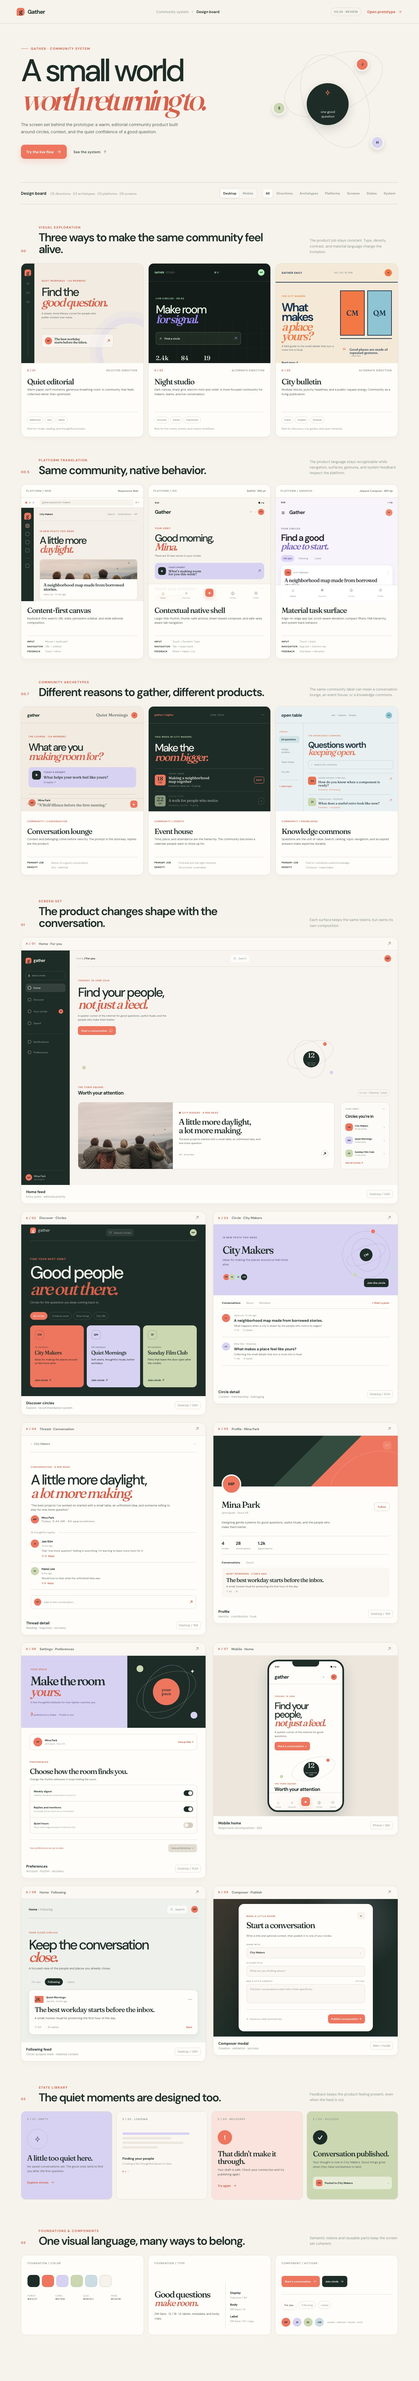
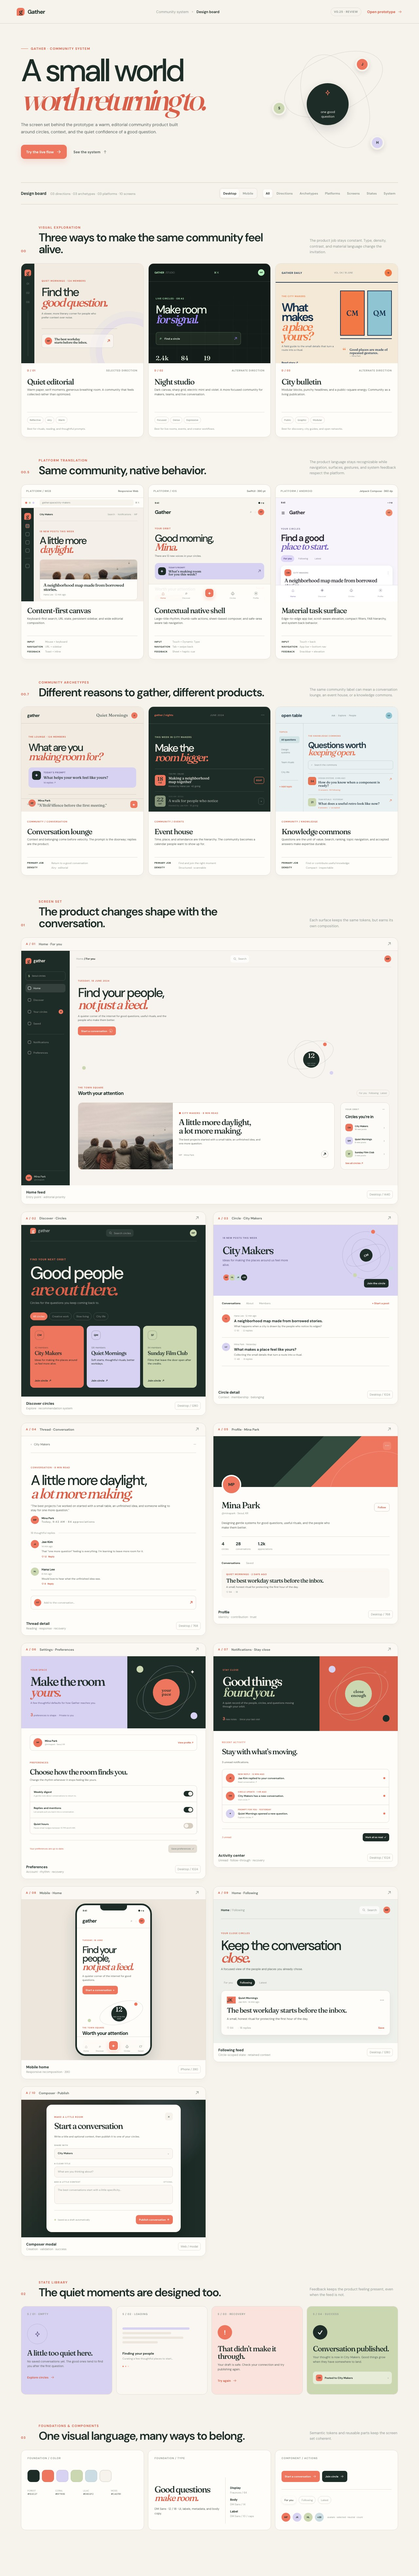
feat: align notifications board handoff

diff --git a/examples/community/board.css b/examples/community/board.css
@@ -213,6 +213,8 @@ button:focus-visible, a:focus-visible { outline: 3px solid rgba(239,118,94,.4); 
 .canvas-profile { min-height: 490px; background: var(--surface); }.profile-cover { position: relative; height: 155px; background: linear-gradient(135deg, var(--forest) 0 47%, #344c40 47% 63%, var(--coral) 63%); }.profile-cover:after { position: absolute; right: -50px; bottom: -80px; width: 260px; height: 180px; border: 1px solid rgba(255,255,255,.25); border-radius: 50%; content: ""; transform: rotate(-23deg); }.profile-cover > span { position: absolute; bottom: -23px; left: 25px; z-index: 1; display: grid; place-items: center; width: 60px; height: 60px; border: 4px solid var(--surface); border-radius: 50%; background: var(--coral); color: var(--forest); font-size: 13px; font-weight: 700; }.profile-cover > button { position: absolute; top: 17px; right: 20px; width: 25px; height: 25px; border-radius: 7px; background: rgba(255,255,255,.12); color: white; }.profile-content { padding: 39px 25px 22px; }.profile-head { display: flex; align-items: center; justify-content: space-between; }.profile-head h3 { margin: 0 0 3px; color: var(--forest); font-family: var(--serif); font-size: 27px; font-weight: 500; letter-spacing: -.06em; }.profile-head p { margin: 0; color: var(--ink-faint); font-size: 8px; }.profile-head button { padding: 7px 10px; border: 1px solid var(--line-strong); border-radius: 7px; background: transparent; color: var(--coral-deep); font-size: 8px; font-weight: 700; }.profile-bio { max-width: 350px; margin: 19px 0; color: var(--ink-soft); font-size: 9px; line-height: 1.55; }.profile-stats { display: flex; gap: 22px; padding: 13px 0; border-top: 1px solid var(--line); border-bottom: 1px solid var(--line); }.profile-stats span { display: grid; gap: 3px; color: var(--ink-faint); font-size: 7px; }.profile-stats b { color: var(--forest); font-size: 13px; }.profile-tabs { display: flex; gap: 18px; padding: 19px 0 11px; color: var(--ink-faint); font-size: 8px; }.profile-tabs b { color: var(--ink); }.profile-post { display: grid; gap: 6px; padding: 14px; border-radius: 10px; background: var(--surface-soft); }.profile-post small { color: var(--coral-deep); font-size: 7px; font-weight: 700; letter-spacing: .1em; }.profile-post strong { color: var(--forest); font-family: var(--serif); font-size: 17px; font-weight: 500; letter-spacing: -.05em; line-height: 1.04; }.profile-post p { margin: 0; color: var(--ink-soft); font-size: 8px; }.profile-post span { color: var(--ink-faint); font-size: 7px; }
 .canvas-settings { min-height: 490px; background: var(--surface); }.settings-board-hero { display: grid; grid-template-columns: 1.15fr .85fr; min-height: 220px; overflow: hidden; background: var(--lilac); }.settings-board-hero > div:first-child { padding: 28px; }.settings-board-hero small, .settings-board-heading > small { color: var(--coral-deep); font-size: 7px; font-weight: 700; letter-spacing: .12em; }.settings-board-hero h3 { margin: 11px 0 10px; color: var(--forest); font-family: var(--serif); font-size: 38px; font-weight: 500; letter-spacing: -.08em; line-height: .88; }.settings-board-hero h3 em { color: var(--coral-deep); }.settings-board-hero p { max-width: 220px; margin: 0 0 19px; color: var(--lilac-ink); font-size: 8px; line-height: 1.45; }.settings-board-hero > div:first-child > span { color: var(--lilac-ink); font-size: 7px; }.settings-board-hero > div:first-child > span b { color: var(--coral-deep); font-size: 13px; }.settings-board-orbit { position: relative; overflow: hidden; background: var(--forest); }.settings-board-orbit:before, .settings-board-orbit:after { position: absolute; top: 50%; left: 50%; border: 1px solid rgba(202,215,177,.38); border-radius: 50%; content: ""; transform: translate(-50%, -50%) rotate(-24deg); }.settings-board-orbit:before { width: 190px; height: 108px; }.settings-board-orbit:after { width: 128px; height: 172px; border-color: rgba(216,210,242,.45); transform: translate(-50%, -50%) rotate(31deg); }.settings-board-orbit span { position: absolute; top: 50%; left: 50%; z-index: 1; display: grid; place-items: center; width: 82px; height: 82px; border-radius: 50%; background: var(--coral); color: var(--forest); font-family: var(--serif); font-size: 13px; line-height: .9; text-align: center; transform: translate(-50%, -50%); }.settings-board-orbit i { position: absolute; z-index: 2; width: 21px; height: 21px; border-radius: 50%; }.settings-board-orbit i:nth-child(1) { top: 29px; left: 28px; background: var(--moss); }.settings-board-orbit i:nth-child(2) { right: 25px; bottom: 28px; background: var(--lilac); }.settings-board-orbit b { position: absolute; top: 39px; right: 35px; z-index: 2; color: var(--paper); font-size: 13px; }.settings-board-body { padding: 19px 26px 22px; }.settings-board-account { display: flex; align-items: center; gap: 8px; padding: 10px; border: 1px solid var(--line); border-radius: 9px; background: rgba(255,253,249,.72); }.settings-board-account > span:first-child { display: grid; place-items: center; width: 27px; height: 27px; border-radius: 50%; color: var(--forest); font-size: 6px; font-weight: 700; }.settings-board-account > span:nth-child(2) { display: grid; flex: 1; gap: 2px; }.settings-board-account strong { color: var(--forest); font-size: 8px; }.settings-board-account small { color: var(--ink-faint); font-size: 6px; }.settings-board-account > b { color: var(--coral-deep); font-size: 7px; }.settings-board-heading { padding: 23px 0 12px; }.settings-board-heading h4 { margin: 7px 0 5px; color: var(--forest); font-family: var(--serif); font-size: 23px; font-weight: 500; letter-spacing: -.07em; }.settings-board-heading p { margin: 0; color: var(--ink-soft); font-size: 8px; }.settings-board-list { overflow: hidden; border: 1px solid var(--line); border-radius: 9px; }.settings-board-list > div { display: flex; align-items: center; gap: 12px; min-height: 49px; padding: 9px 11px; }.settings-board-list > div + div { border-top: 1px solid var(--line); }.settings-board-list > div > span { display: grid; flex: 1; gap: 3px; }.settings-board-list strong { color: var(--forest); font-size: 8px; }.settings-board-list small { color: var(--ink-faint); font-size: 6px; }.settings-board-list i { position: relative; display: block; width: 29px; height: 17px; border-radius: 99px; background: var(--line-strong); }.settings-board-list i:after { position: absolute; top: 2px; left: 2px; width: 13px; height: 13px; border-radius: 50%; background: var(--paper); box-shadow: 0 1px 3px rgba(29,40,36,.16); content: ""; }.settings-board-list i.on { background: var(--forest); }.settings-board-list i.on:after { transform: translateX(12px); }.settings-board-footer { display: flex; align-items: center; justify-content: space-between; gap: 10px; margin-top: 18px; padding-top: 13px; border-top: 1px solid var(--line); }.settings-board-footer span { color: var(--coral-deep); font-size: 7px; }.settings-board-footer b { padding: 8px 9px; border-radius: 7px; background: var(--line); color: var(--ink-faint); font-size: 7px; }
 
+.canvas-notifications { min-height: 490px; background: var(--surface); }.notifications-board-hero { display: grid; grid-template-columns: 1.15fr .85fr; min-height: 220px; overflow: hidden; background: var(--forest); }.notifications-board-hero > div:first-child { padding: 28px; }.notifications-board-hero small, .notifications-board-heading > small { color: var(--coral); font-size: 7px; font-weight: 700; letter-spacing: .12em; }.notifications-board-hero h3 { margin: 11px 0 10px; color: var(--paper); font-family: var(--serif); font-size: 38px; font-weight: 500; letter-spacing: -.08em; line-height: .88; }.notifications-board-hero h3 em { color: var(--moss); }.notifications-board-hero p { max-width: 230px; margin: 0 0 19px; color: rgba(246,242,236,.67); font-size: 8px; line-height: 1.45; }.notifications-board-hero > div:first-child > span { color: rgba(246,242,236,.58); font-size: 7px; }.notifications-board-hero > div:first-child > span b { color: var(--coral); font-size: 13px; }.notifications-board-orbit { position: relative; overflow: hidden; background: var(--coral-deep); }.notifications-board-orbit:before, .notifications-board-orbit:after { position: absolute; top: 50%; left: 50%; border: 1px solid rgba(255,253,249,.44); border-radius: 50%; content: ""; transform: translate(-50%, -50%) rotate(-24deg); }.notifications-board-orbit:before { width: 190px; height: 108px; }.notifications-board-orbit:after { width: 128px; height: 172px; border-color: rgba(202,215,177,.58); transform: translate(-50%, -50%) rotate(31deg); }.notifications-board-orbit span { position: absolute; top: 50%; left: 50%; z-index: 1; display: grid; place-items: center; width: 82px; height: 82px; border-radius: 50%; background: var(--moss); color: var(--forest); font-family: var(--serif); font-size: 13px; line-height: .9; text-align: center; transform: translate(-50%, -50%); }.notifications-board-orbit i { position: absolute; z-index: 2; width: 21px; height: 21px; border-radius: 50%; }.notifications-board-orbit i:nth-child(1) { top: 29px; left: 28px; background: var(--lilac); }.notifications-board-orbit i:nth-child(2) { right: 25px; bottom: 28px; background: var(--forest); }.notifications-board-orbit b { position: absolute; top: 39px; right: 35px; z-index: 2; color: var(--paper); font-size: 13px; }.notifications-board-body { padding: 19px 26px 22px; }.notifications-board-heading { padding: 2px 0 13px; }.notifications-board-heading h4 { margin: 7px 0 5px; color: var(--forest); font-family: var(--serif); font-size: 23px; font-weight: 500; letter-spacing: -.07em; }.notifications-board-heading > span { color: var(--ink-soft); font-size: 8px; }.notifications-board-list { overflow: hidden; border: 1px solid var(--line); border-radius: 9px; }.notifications-board-list > div { display: flex; align-items: center; gap: 10px; min-height: 54px; padding: 9px 11px; }.notifications-board-list > div + div { border-top: 1px solid var(--line); }.notifications-board-list > div > span:first-child { display: grid; flex: 0 0 27px; place-items: center; width: 27px; height: 27px; border-radius: 50%; color: var(--forest); font-size: 6px; font-weight: 700; }.notifications-board-list > div > span:nth-child(2) { display: grid; flex: 1; gap: 3px; min-width: 0; }.notifications-board-list small { color: var(--coral-deep); font-size: 6px; font-weight: 700; letter-spacing: .08em; }.notifications-board-list strong { overflow: hidden; color: var(--forest); font-size: 8px; font-weight: 600; text-overflow: ellipsis; white-space: nowrap; }.notifications-board-list em { color: var(--ink-faint); font-size: 6px; font-style: normal; }.notifications-board-list > div > i { width: 6px; height: 6px; border-radius: 50%; background: var(--coral); }.notifications-board-footer { display: flex; align-items: center; justify-content: space-between; gap: 10px; margin-top: 18px; padding-top: 13px; border-top: 1px solid var(--line); }.notifications-board-footer span { color: var(--coral-deep); font-size: 7px; }.notifications-board-footer b { padding: 8px 9px; border-radius: 7px; background: var(--forest); color: var(--paper); font-size: 7px; }
+
 /* miniature state and creation screens */
 .canvas-filtered { min-height: 420px; padding: 20px 23px 24px; background: #edf0eb; }.filtered-topbar { display: flex; align-items: center; gap: 12px; padding-bottom: 14px; border-bottom: 1px solid rgba(29,44,39,.14); color: var(--ink-faint); font-size: 9px; }.filtered-topbar > span:first-child { flex: 1; }.filtered-topbar > span:first-child b { color: var(--forest); }.filtered-topbar .mini-search { display: inline-flex; }.filtered-hero { padding: 30px 0 22px; }.filtered-hero small { color: var(--coral-deep); font-size: 7px; font-weight: 700; letter-spacing: .12em; }.filtered-hero h3 { margin: 11px 0 10px; color: var(--forest); font-size: clamp(28px, 4vw, 42px); font-weight: 500; letter-spacing: -.09em; line-height: .9; }.filtered-hero h3 em { color: var(--coral-deep); font-family: var(--serif); font-weight: 500; }.filtered-hero p { max-width: 350px; margin: 0; color: var(--ink-soft); font-size: 9px; line-height: 1.55; }.filtered-tabs { display: flex; gap: 4px; margin-bottom: 13px; }.filtered-tabs span { padding: 6px 9px; border-radius: 999px; color: var(--ink-faint); font-size: 8px; }.filtered-tabs .selected { background: var(--forest); color: var(--paper); font-weight: 700; }.filtered-post { display: grid; gap: 10px; padding: 17px; border: 1px solid var(--line); border-radius: 13px; background: var(--surface); box-shadow: 0 8px 18px rgba(39,45,41,.05); }.filtered-post-head { display: grid; grid-template-columns: 27px 1fr auto; gap: 8px; align-items: center; }.filtered-post-head > span:nth-child(2) { display: grid; gap: 3px; }.filtered-post-head b { color: var(--forest); font-size: 8px; }.filtered-post-head small { color: var(--ink-faint); font-size: 7px; }.filtered-post-head i { color: var(--ink-faint); font-size: 10px; font-style: normal; letter-spacing: .08em; }.filtered-post > strong { color: var(--forest); font-family: var(--serif); font-size: 21px; font-weight: 500; letter-spacing: -.05em; line-height: 1; }.filtered-post > p { margin: 0; color: var(--ink-soft); font-size: 9px; line-height: 1.5; }.filtered-post-actions { display: flex; gap: 13px; padding-top: 4px; color: var(--ink-faint); font-size: 8px; }.filtered-post-actions b { margin-left: auto; color: var(--coral-deep); }
 .canvas-composer { display: grid; place-items: center; min-height: 420px; background: var(--forest); }.composer-backdrop { position: absolute; inset: 0; background: radial-gradient(circle at 75% 18%, rgba(216,210,242,.28), transparent 28%), linear-gradient(135deg, rgba(239,118,94,.2), transparent 48%); opacity: .8; }.board-composer-card { position: relative; width: min(410px, calc(100% - 34px)); padding: 24px; border-radius: 16px; background: var(--surface); box-shadow: 0 22px 45px rgba(0,0,0,.22); }.board-composer-head { display: flex; align-items: flex-start; justify-content: space-between; gap: 14px; }.board-composer-head small { color: var(--coral-deep); font-size: 7px; font-weight: 700; letter-spacing: .12em; }.board-composer-head h3 { margin: 8px 0 0; color: var(--forest); font-family: var(--serif); font-size: 26px; font-weight: 500; letter-spacing: -.07em; line-height: .95; }.board-composer-head > span { display: grid; place-items: center; width: 24px; height: 24px; border-radius: 7px; background: var(--paper); color: var(--ink-soft); font-size: 14px; }.board-composer-copy { margin: 13px 0 17px; color: var(--ink-soft); font-size: 8px; line-height: 1.5; }.board-field { display: grid; gap: 5px; margin-top: 10px; }.board-field > small { color: var(--ink-faint); font-size: 6px; font-weight: 700; letter-spacing: .1em; }.board-field > small i { float: right; font-style: normal; font-weight: 400; letter-spacing: 0; }.board-field > b { min-height: 33px; padding: 9px 10px; border: 1px solid var(--line); border-radius: 8px; background: var(--surface-soft); color: var(--forest); font-size: 8px; font-weight: 600; }.board-field > b span { float: right; color: var(--ink-faint); }.board-field > .field-placeholder { color: var(--ink-faint); font-weight: 400; }.board-field-large > b { min-height: 58px; line-height: 1.45; }.board-composer-footer { display: flex; align-items: center; justify-content: space-between; gap: 10px; margin-top: 19px; padding-top: 14px; border-top: 1px solid var(--line); }.board-composer-footer > span { color: var(--ink-faint); font-size: 7px; }.board-composer-footer > span i { display: inline-block; width: 5px; height: 5px; margin-right: 4px; border-radius: 50%; background: var(--moss); }.board-composer-footer > strong { padding: 9px 10px; border-radius: 8px; background: var(--coral); color: white; font-size: 8px; }
@@ -260,4 +262,6 @@ button:focus-visible, a:focus-visible { outline: 3px solid rgba(239,118,94,.4); 
 }
 @media (max-width: 720px) { .canvas-settings { min-height: 475px; }.settings-board-hero { grid-template-columns: 1fr; }.settings-board-hero > div:first-child { padding: 24px 19px; }.settings-board-orbit { min-height: 170px; }.settings-board-body { padding-right: 19px; padding-left: 19px; } }
 @media (max-width: 420px) { .settings-board-heading h4 { font-size: 21px; }.settings-board-footer { align-items: flex-start; flex-direction: column; }.settings-board-footer b { width: 100%; text-align: center; } }
+@media (max-width: 720px) { .canvas-notifications { min-height: 475px; }.notifications-board-hero { grid-template-columns: 1fr; }.notifications-board-hero > div:first-child { padding: 24px 19px; }.notifications-board-orbit { min-height: 170px; }.notifications-board-body { padding-right: 19px; padding-left: 19px; } }
+@media (max-width: 420px) { .notifications-board-heading h4 { font-size: 21px; }.notifications-board-footer { align-items: flex-start; flex-direction: column; }.notifications-board-footer b { width: 100%; text-align: center; }.notifications-board-list strong { white-space: normal; } }
 @media (prefers-reduced-motion: reduce) { *, *::before, *::after { scroll-behavior: auto !important; transition-duration: .01ms !important; animation-duration: .01ms !important; } }

diff --git a/examples/community/board.html b/examples/community/board.html
@@ -35,7 +35,7 @@
     <header class="board-header">
       <a class="board-brand" href="./index.html" aria-label="Back to Gather home"><span class="board-brand-mark">g</span><span>Gather</span></a>
       <div class="board-crumb"><span>Community system</span><i></i><strong>Design board</strong></div>
-      <div class="board-header-actions"><span class="version-chip">v0.24 · review</span><a class="open-prototype" href="./index.html">Open prototype <svg class="board-icon" aria-hidden="true"><use href="#board-arrow" /></svg></a></div>
+      <div class="board-header-actions"><span class="version-chip">v0.25 · review</span><a class="open-prototype" href="./index.html">Open prototype <svg class="board-icon" aria-hidden="true"><use href="#board-arrow" /></svg></a></div>
     </header>
 
     <main class="board-main" id="boardMain" data-view="desktop">
@@ -50,7 +50,7 @@
       </section>
 
       <section class="board-toolbar" aria-label="Design board controls">
-          <div class="board-toolbar-label"><strong>Design board</strong><span>03 directions · 03 archetypes · 03 platforms · 09 screens</span></div>
+          <div class="board-toolbar-label"><strong>Design board</strong><span>03 directions · 03 archetypes · 03 platforms · 10 screens</span></div>
         <div class="board-controls">
           <div class="board-segmented" role="group" aria-label="Preview size"><button class="is-active" type="button" data-view-toggle="desktop" aria-pressed="true">Desktop</button><button type="button" data-view-toggle="mobile" aria-pressed="false">Mobile</button></div>
           <div class="board-filters" role="group" aria-label="Filter board"><button class="is-active" type="button" data-board-filter="all" aria-pressed="true">All</button><button type="button" data-board-filter="directions" aria-pressed="false">Directions</button><button type="button" data-board-filter="archetypes" aria-pressed="false">Archetypes</button><button type="button" data-board-filter="platforms" aria-pressed="false">Platforms</button><button type="button" data-board-filter="screens" aria-pressed="false">Screens</button><button type="button" data-board-filter="states" aria-pressed="false">States</button><button type="button" data-board-filter="system" aria-pressed="false">System</button></div>
@@ -162,20 +162,26 @@
             <div class="artboard-caption"><div><strong>Preferences</strong><span>Account · rhythm · recovery</span></div><span class="caption-chip">Desktop / 1024</span></div>
           </article>
 
+          <article class="artboard artboard-notifications" data-board-type="screens" data-artboard-title="Notifications / Stay close">
+            <div class="artboard-meta"><span class="artboard-number">A / 07</span><span class="artboard-label">Notifications · Stay close</span><button type="button" class="zoom-button" aria-label="Open Notifications screen details" data-open-artboard="Notifications / Stay close">↗</button></div>
+            <div class="artboard-canvas canvas-notifications"><div class="notifications-board-hero"><div><small>STAY CLOSE</small><h3>Good things<br /><em>found you.</em></h3><p>A quiet record of the people, circles, and questions moving through your orbit.</p><span><b>3</b> new notes&nbsp; · &nbsp;Since your last visit</span></div><div class="notifications-board-orbit"><i></i><i></i><span>close<br />enough</span><b>◌</b></div></div><div class="notifications-board-body"><div class="notifications-board-heading"><small>RECENT ACTIVITY</small><h4>Stay with what’s moving.</h4><span>3 unread notifications.</span></div><div class="notifications-board-list"><div><span class="coral-avatar">JK</span><span><small>NEW REPLY · 12 MIN AGO</small><strong>Jae Kim replied to your conversation.</strong><em>Read conversation ↗</em></span><i></i></div><div><span class="coral-avatar">CM</span><span><small>CIRCLE UPDATE · 1 HR AGO</small><strong>City Makers has a new conversation.</strong><em>Visit circle ↗</em></span><i></i></div><div><span class="lilac-avatar">✦</span><span><small>PROMPT FOR YOU · YESTERDAY</small><strong>Quiet Mornings opened a new question.</strong><em>Explore circles ↗</em></span><i></i></div></div><div class="notifications-board-footer"><span>3 unread</span><b>Mark all as read&nbsp; ✓</b></div></div></div>
+            <div class="artboard-caption"><div><strong>Activity center</strong><span>Unread · follow-through · recovery</span></div><span class="caption-chip">Desktop / 1024</span></div>
+          </article>
+
           <article class="artboard artboard-mobile" data-board-type="screens" data-artboard-title="Mobile / Home">
-            <div class="artboard-meta"><span class="artboard-number">A / 07</span><span class="artboard-label">Mobile · Home</span><button type="button" class="zoom-button" aria-label="Open Mobile screen details" data-open-artboard="Mobile / Home">↗</button></div>
+            <div class="artboard-meta"><span class="artboard-number">A / 08</span><span class="artboard-label">Mobile · Home</span><button type="button" class="zoom-button" aria-label="Open Mobile screen details" data-open-artboard="Mobile / Home">↗</button></div>
             <div class="artboard-canvas canvas-mobile"><div class="phone-frame"><div class="phone-notch"></div><div class="phone-status"><span>9:41</span><span>● ◔ ▮</span></div><div class="phone-top"><b>gather</b><span>⌕ &nbsp; ◌ &nbsp; <i>MP</i></span></div><div class="phone-body"><small class="phone-kicker">TUESDAY, 18 JUNE</small><h3>Find your people,<br /><em>not just a feed.</em></h3><p>A quieter corner of the internet for good questions.</p><button>Start a conversation&nbsp; +</button><div class="phone-orbit"><i></i><i></i><span>12<small>new voices this week</small></span></div><div class="phone-section"><small>THE TOWN SQUARE</small><b>Worth your attention</b></div><div class="phone-story"><div></div><span>● CITY MAKERS · 8 MIN READ</span><strong>A little more daylight,<br />a lot more making.</strong><small>♡ 84 &nbsp; ◌ 18</small></div></div><div class="phone-nav"><span>⌂<small>Home</small></span><span>⌕<small>Discover</small></span><b>+</b><span>♧<small>Circles</small></span><span>▱<small>Saved</small></span></div></div></div>
             <div class="artboard-caption"><div><strong>Mobile home</strong><span>Responsive recomposition · 390</span></div><span class="caption-chip">iPhone / 390</span></div>
           </article>
 
           <article class="artboard artboard-filtered" data-board-type="screens" data-artboard-title="Home / Following">
-            <div class="artboard-meta"><span class="artboard-number">A / 08</span><span class="artboard-label">Home · Following</span><button type="button" class="zoom-button" aria-label="Open Following screen details" data-open-artboard="Home / Following">↗</button></div>
+            <div class="artboard-meta"><span class="artboard-number">A / 09</span><span class="artboard-label">Home · Following</span><button type="button" class="zoom-button" aria-label="Open Following screen details" data-open-artboard="Home / Following">↗</button></div>
             <div class="artboard-canvas canvas-filtered"><div class="filtered-topbar"><span><b>Home</b> / Following</span><span class="mini-search"><svg class="board-icon" aria-hidden="true"><use href="#board-search" /></svg> Search</span><b class="mini-avatar">MP</b></div><div class="filtered-hero"><small>YOUR CLOSE CIRCLES</small><h3>Keep the conversation<br /><em>close.</em></h3><p>A focused view of the people and places you already chose.</p></div><div class="filtered-tabs"><span>For you</span><span class="selected">Following</span><span>Latest</span></div><div class="filtered-post"><div class="filtered-post-head"><span class="coral-avatar">JK</span><span><b>Quiet Mornings</b><small>Jae Kim · 14 min ago</small></span><i>•••</i></div><strong>The best workday starts before the inbox.</strong><p>A small, honest ritual for protecting the first hour of the day.</p><div class="filtered-post-actions"><span>♡ 84</span><span>◌ 18 replies</span><b>Save</b></div></div></div>
             <div class="artboard-caption"><div><strong>Following feed</strong><span>Circle-scoped state · retained context</span></div><span class="caption-chip">Desktop / 1280</span></div>
           </article>
 
           <article class="artboard artboard-composer" data-board-type="screens" data-artboard-title="Composer / Modal">
-            <div class="artboard-meta"><span class="artboard-number">A / 09</span><span class="artboard-label">Composer · Publish</span><button type="button" class="zoom-button" aria-label="Open Composer screen details" data-open-artboard="Composer / Modal">↗</button></div>
+            <div class="artboard-meta"><span class="artboard-number">A / 10</span><span class="artboard-label">Composer · Publish</span><button type="button" class="zoom-button" aria-label="Open Composer screen details" data-open-artboard="Composer / Modal">↗</button></div>
             <div class="artboard-canvas canvas-composer"><div class="composer-backdrop"></div><div class="board-composer-card"><div class="board-composer-head"><div><small>MAKE A LITTLE ROOM</small><h3>Start a conversation</h3></div><span>×</span></div><p class="board-composer-copy">Write a title and optional context, then publish it to one of your circles.</p><div class="board-field"><small>SHARE WITH</small><b>City Makers <span>⌄</span></b></div><div class="board-field"><small>A CLEAR TITLE</small><b class="field-placeholder">What are you thinking about?</b></div><div class="board-field board-field-large"><small>ADD A LITTLE CONTEXT <i>OPTIONAL</i></small><b class="field-placeholder">The best conversations start with a little specificity…</b></div><div class="board-composer-footer"><span><i></i> Saved as a draft automatically</span><strong>Publish conversation&nbsp; ↑</strong></div></div></div>
             <div class="artboard-caption"><div><strong>Composer modal</strong><span>Creation · validation · success</span></div><span class="caption-chip">Web / modal</span></div>
           </article>

diff --git a/examples/community/board.js b/examples/community/board.js
@@ -22,6 +22,7 @@ const artboardDescriptions = {
   "Thread / Conversation": "Reading · response · recovery",
   "Profile / Mina Park": "Identity · contribution · trust",
   "Settings / Preferences": "Account · rhythm · recovery",
+  "Notifications / Stay close": "Unread · follow-through · recovery",
   "Mobile / Home": "Responsive recomposition · 390",
   "Home / Following": "Circle-scoped state · retained context",
   "Composer / Modal": "Creation · validation · success",

diff --git a/tests/test_community_example_contract.py b/tests/test_community_example_contract.py
@@ -56,7 +56,7 @@ class CommunityExampleContractTests(unittest.TestCase):
     def test_design_board_exposes_shareable_state_and_dialog_focus(self):
         board_html = (EXAMPLE / "board.html").read_text(encoding="utf-8")
         board_js = (EXAMPLE / "board.js").read_text(encoding="utf-8")
-        self.assertIn('class="version-chip">v0.24 · review</span>', board_html)
+        self.assertIn('class="version-chip">v0.25 · review</span>', board_html)
         self.assertIn('aria-label="Preview size"', board_html)
         self.assertIn('data-view-toggle="desktop" aria-pressed="true"', board_html)
         self.assertIn('data-board-filter="all" aria-pressed="true"', board_html)
@@ -67,10 +67,11 @@ class CommunityExampleContractTests(unittest.TestCase):
         self.assertIn('boardDialog.addEventListener("cancel"', board_js)
         self.assertIn('aria-describedby="dialogDescription"', board_html)
         self.assertIn('window.addEventListener("popstate", readUrlState)', board_js)
-        self.assertEqual(len(re.findall(r'data-artboard-title="[^"]+"', board_html)), 9)
+        self.assertEqual(len(re.findall(r'data-artboard-title="[^"]+"', board_html)), 10)
         self.assertIn('data-artboard-title="Home / Following"', board_html)
         self.assertIn('data-artboard-title="Composer / Modal"', board_html)
         self.assertIn('data-artboard-title="Settings / Preferences"', board_html)
+        self.assertIn('data-artboard-title="Notifications / Stay close"', board_html)
 
     def test_prototype_rehydrates_url_state_after_history_changes(self):
         self.assertIn('window.addEventListener("popstate"', self.js)

diff --git a/examples/community/design-spec.md b/examples/community/design-spec.md
@@ -41,9 +41,10 @@ The selected direction is the warm editorial one because Gather’s primary job 
 4. **Thread / Conversation** — reading hierarchy, replies, author context, and inline response composer.
 5. **Profile / Mina Park** — identity, contribution history, trust signals, and saved context.
 6. **Settings / Preferences** — account context, preference rhythm, accessible toggles, and saved feedback.
-7. **Mobile home** — stacked content with fixed bottom navigation, floating create action, and responsive recomposition.
-8. **Home / Following + circle scoped** — the production surface adds filter and circle-selection states without changing the shell.
-9. **Composer / modal** — the production surface adds circle selection, required title, optional context, validation, and success feedback.
+7. **Notifications / Stay close** — unread activity, follow-through links, and mark-all-read recovery.
+8. **Mobile home** — stacked content with fixed bottom navigation, floating create action, and responsive recomposition.
+9. **Home / Following + circle scoped** — the production surface adds filter and circle-selection states without changing the shell.
+10. **Composer / modal** — the production surface adds circle selection, required title, optional context, validation, and success feedback.
 
 The design board also shows the empty, loading, recovery, and success states that are easy to omit from a visual-only case study.
 
@@ -96,6 +97,7 @@ This prevents “community” from defaulting to one feed pattern. The selected 
 | Global Saved navigation | Desktop and mobile Saved open `view=profile&profile=mina&tab=saved`, select the Saved panel, and restore the previous route through browser back |
 | Notifications route | Sidebar and topbar bell open `view=notifications`, render unread activity, mark all as read with a status announcement, and preserve browser-back recovery |
 | Settings route | Sidebar Settings opens `view=settings`, exposes account context and accessible preference toggles, announces dirty/saved state, and preserves browser-back recovery |
+| Notifications handoff | Notifications / Stay close is represented on the board with unread activity, follow-through, and recovery metadata aligned to `view=notifications` |
 | Navigation current state | Sidebar and mobile navigation share named landmarks and expose the selected destination with `aria-current="page"` |
 | Discover route | Discover opens as a shareable `view=discover` route, resets scroll instantly, filters circle cards, and restores Home through browser back |
 | Circle route | A Discover card opens `view=circle&circle=City Makers`, selects Your circles, and restores Discover through browser back |
@@ -120,6 +122,7 @@ board.html
   ├─ Thread / Conversation  ├─ open live prototype → index.html?view=thread&circle=City%20Makers&thread=city-map
   ├─ Profile / Mina Park    ├─ open live prototype → index.html?view=profile&profile=mina
   ├─ Settings / Preferences ├─ open live prototype → index.html?view=settings
+  ├─ Notifications / Stay close ├─ open live prototype → index.html?view=notifications
   └─ Mobile / Home ─────────┘
        ├─ Empty
        ├─ Loading
@@ -145,7 +148,7 @@ board.html
 | Target | Evidence | Coverage |
 | --- | --- | --- |
 | Desktop 1440 × 1000 | [`board-1440.jpg`](evidence/board-1440.jpg), [`prototype-1440.jpg`](evidence/prototype-1440.jpg) | Primary wide review of the design board and runnable surface |
-| Desktop 1280 × 900 | [`board-1280.jpg`](evidence/board-1280.jpg) | Directions, archetypes, platform translations, home, discover, circle, thread, profile, settings |
+| Desktop 1280 × 900 | [`board-1280.jpg`](evidence/board-1280.jpg) | Directions, archetypes, platform translations, home, discover, circle, thread, profile, settings, notifications |
 | Desktop 1024 × 900 | [`board-1024.jpg`](evidence/board-1024.jpg) | Sidebar-to-drawer boundary and content reflow |
 | Mobile 390 × 844 | [`board-390.jpg`](evidence/board-390.jpg), [`prototype-390.jpg`](evidence/prototype-390.jpg), [`prototype-discover-390.jpg`](evidence/prototype-discover-390.jpg) | One-column cards, horizontal filters, bottom navigation, Discover directory, composer, empty/loading/recovery/success states |
 | Discover desktop 1440 × 1000 | [`prototype-discover-1440.jpg`](evidence/prototype-discover-1440.jpg) | Dark editorial hero, circle directory cards, topic filters, route-boundary state |
@@ -157,9 +160,10 @@ board.html
 | Profile mobile 390 × 844 | [`prototype-profile-390.jpg`](evidence/prototype-profile-390.jpg) | Stacked identity cover, profile tabs, contribution cards, circle list and bottom navigation |
 | Settings desktop 1440 × 1000 | [`prototype-settings-1440.jpg`](evidence/prototype-settings-1440.jpg), [`board-1440.jpg`](evidence/board-1440.jpg) | Preferences hero, account context, toggle states, saved feedback, and board handoff parity |
 | Settings mobile 390 × 844 | [`prototype-settings-390.jpg`](evidence/prototype-settings-390.jpg), [`board-390.jpg`](evidence/board-390.jpg) | Stacked preferences flow, fixed navigation, responsive board artboard, and accessible controls |
+| Notifications desktop/mobile | [`prototype-notifications-1440.jpg`](evidence/prototype-notifications-1440.jpg), [`prototype-notifications-390.jpg`](evidence/prototype-notifications-390.jpg), [`board-1440.jpg`](evidence/board-1440.jpg), [`board-390.jpg`](evidence/board-390.jpg) | Stay close hero, unread activity, follow-through, mark-all-read recovery, and responsive board handoff |
 | Native intent: iOS 390 pt / Android 360 dp | Platform translation artboards | Large-title/tab-bar and app-bar/FAB behavior are specified; native runtime remains a target, not a shipped surface |
 
-The live surface was checked after the direction, platform, and archetype boards were added. Runtime QA also exercised composer validation → recovery → publish success, feed filter state, mobile drawer open → Escape recovery, URL restoration, prototype and board history-state rehydration, local font loading, search URL synchronization, composer focus return, drawer focus return, 44 px mobile touch-target geometry, Home and Settings board dialog metadata/focus recovery, and skip-link navigation. The [evidence manifest](evidence/manifest.json) binds each capture and runtime assertion to its route, viewport, and represented state; run `npm run test:browser` and `npm run validate:evidence` to verify the interaction contract and JPEG dimensions. Evidence captures are committed under `examples/community/evidence/`; they are full-page JPEG screenshots produced from the local server at the viewport sizes named above. Reproduce the surface with the command in [Run locally](#run-locally), then open `/board.html` and `/index.html` at the declared sizes. The static example has no backend or network dependency; loading, empty, recovery, validation, and success are represented as deterministic prototype states. Contributors can regenerate the capture matrix with `npm install`, `npx playwright install chromium`, and `npm run capture:community`; the command reads the manifest instead of maintaining a second list of viewports.
+The live surface was checked after the direction, platform, and archetype boards were added. Runtime QA also exercised composer validation → recovery → publish success, feed filter state, mobile drawer open → Escape recovery, URL restoration, prototype and board history-state rehydration, local font loading, search URL synchronization, composer focus return, drawer focus return, 44 px mobile touch-target geometry, Home, Settings, and Notifications board dialog metadata/focus recovery, and skip-link navigation. The [evidence manifest](evidence/manifest.json) binds each capture and runtime assertion to its route, viewport, and represented state; run `npm run test:browser` and `npm run validate:evidence` to verify the interaction contract and JPEG dimensions. Evidence captures are committed under `examples/community/evidence/`; they are full-page JPEG screenshots produced from the local server at the viewport sizes named above. Reproduce the surface with the command in [Run locally](#run-locally), then open `/board.html` and `/index.html` at the declared sizes. The static example has no backend or network dependency; loading, empty, recovery, validation, and success are represented as deterministic prototype states. Contributors can regenerate the capture matrix with `npm install`, `npx playwright install chromium`, and `npm run capture:community`; the command reads the manifest instead of maintaining a second list of viewports.
 
 The live route flow now covers Home circles rail → Discover → Circle / City Makers → Thread → Profile, global Saved → Profile Saved, Notifications → Thread/Circle/Discover follow-through, Settings → account/preferences, and Home → Featured Thread with shareable URLs, selected Conversations/About and Conversations/Saved tabs, join/follow feedback, author/reply context, local reply creation, contribution history, unread/read feedback, dirty/saved preference feedback, and browser-back restoration. Circle, featured Thread, Profile, Notifications, and Settings desktop/mobile captures are included in the evidence matrix alongside the Discover route.
 

diff --git a/design-qa.md b/design-qa.md
@@ -20,7 +20,7 @@ The source and implementation were captured and reviewed together before judging
 | Notifications route review | [prototype-notifications-1440.jpg](examples/community/evidence/prototype-notifications-1440.jpg), [prototype-notifications-390.jpg](examples/community/evidence/prototype-notifications-390.jpg) | Same implementation route at desktop and mobile | 1440 × 1000 and 390 × 844 CSS px / full-page evidence | 1× |
 | Settings route review | [prototype-settings-1440.jpg](examples/community/evidence/prototype-settings-1440.jpg), [prototype-settings-390.jpg](examples/community/evidence/prototype-settings-390.jpg) | Same implementation route at desktop and mobile | 1440 × 1000 and 390 × 844 CSS px / full-page evidence | 1× |
 
-The desktop source is the refreshed `A / 01 · Home / For you` artboard with its screen content aligned to the viewport. The mobile source is the responsive design board containing `A / 06 · Mobile / Home`; the implementation is the runnable prototype at the same mobile viewport.
+The desktop source is the refreshed `A / 01 · Home / For you` artboard with its screen content aligned to the viewport. The mobile source is the responsive design board containing `A / 08 · Mobile / Home`; the implementation is the runnable prototype at the same mobile viewport.
 
 ## Full-view comparison
 
@@ -45,6 +45,7 @@ The focused desktop pass inspected the hero baseline, orbit artwork, feed headin
 | DQ-009 | P2 | Route / implementation coverage | Sidebar Notifications and the topbar bell stopped at a toast, leaving the board’s Stay close activity state without a runnable destination or unread/read model. | Resolved by adding a responsive Notifications route with deterministic activity, Thread/Circle/Discover follow-through, mark-all-read status feedback, evidence captures, and a visual baseline. |
 | DQ-010 | P2 | Route / implementation coverage | Sidebar Settings stopped at a route-boundary toast, leaving the board’s account and preference surface without a runnable destination or saved-state feedback. | Resolved by adding a responsive Settings route with account context, accessible preference toggles, dirty/saved status feedback, browser-back recovery, evidence captures, and a visual baseline. |
 | DQ-011 | P2 | Handoff parity | Settings became a real route, but the public board still promised the older eight-screen set and had no inspectable Settings artboard or metadata. | Resolved by adding the ninth Settings / Preferences artboard, updating the board marker and inventory, adding responsive board styling, and testing Settings dialog metadata/focus recovery. |
+| DQ-012 | P2 | Handoff parity | Notifications became a real route, but the public board still had no inspectable Stay close artboard or declared metadata for unread activity and follow-through. | Resolved by adding the tenth Notifications / Stay close artboard, updating the board marker and inventory, adding responsive board styling, and testing Notifications dialog metadata/focus recovery. |
 
 P0 findings: none.  
 P1 findings: none.  
@@ -82,6 +83,8 @@ The v0.23 Settings-route pass closes the remaining account-controls dead end: Si
 
 The v0.24 Settings-board parity pass closes the handoff gap introduced by that route: the public board now carries a ninth Settings / Preferences artboard, its detail dialog exposes the declared account/rhythm/recovery metadata, the header marker is refreshed to `v0.24 · review`, and the board/prototype evidence is re-captured at desktop and mobile sizes.
 
+The v0.25 Notifications-board parity pass closes the next handoff gap: the public board now carries a tenth Notifications / Stay close artboard, its detail dialog exposes the declared unread/follow-through/recovery metadata, the header marker is refreshed to `v0.25 · review`, and the board/prototype evidence is re-captured at desktop and mobile sizes.
+
 ## Rubric pass
 
 - Typography: local fonts, weight hierarchy, serif display treatment, wrapping, and line-height remain coherent across source and implementation.
@@ -98,10 +101,10 @@ The v0.24 Settings-board parity pass closes the handoff gap introduced by that r
 
 ## Verification
 
-- `npm run capture:community` — refreshed 18 evidence captures, including Discover, City Makers Circle, the featured “A little more daylight” Thread, Mina Park Profile, Notifications, and Settings at desktop and mobile.
+- `npm run capture:community` — refreshed 18 evidence captures, including Discover, City Makers Circle, the featured “A little more daylight” Thread, Mina Park Profile, Notifications, and Settings at desktop and mobile, with the 10-screen board inventory visible in the board captures.
 - QA comparison capture — refreshed source and implementation panels at 1280 × 720 CSS px / 1× density.
 - `npm run validate:evidence` — 18 captures and 32 documented runtime assertions passed.
-- `npm run test:browser` — 25 / 25 runtime checks passed, including Home circles rail → Discover, global Saved → Profile Saved, Notifications unread/read state, Settings dirty/saved preference state, Settings board-artboard metadata/focus recovery, and Home → Featured Thread plus Discover → Circle → Thread → Profile route entry/back recovery, Circle tab/join state, Thread reply creation, Profile tab/follow feedback, instant scroll reset, navigation current state, dedicated feed-status announcements, and Like action focus retention after feed rerender.
+- `npm run test:browser` — 25 / 25 runtime checks passed, including Home circles rail → Discover, global Saved → Profile Saved, Notifications unread/read state, Settings dirty/saved preference state, Settings and Notifications board-artboard metadata/focus recovery, and Home → Featured Thread plus Discover → Circle → Thread → Profile route entry/back recovery, Circle tab/join state, Thread reply creation, Profile tab/follow feedback, instant scroll reset, navigation current state, dedicated feed-status announcements, and Like action focus retention after feed rerender.
 - `npm run test:visual` — 9 / 9 targets passed with `mismatchRatio: 0`.
 - `python3 -m unittest tests.test_community_example_contract.CommunityExampleContractTests.test_responsive_and_motion_contracts_are_present` — safe-area contract passed after the intentional RED → GREEN cycle.
 - Browser console sweep — 0 console errors, 0 page errors, and 0 invalid links across Home, Featured Thread, Discover, City Makers Circle, City Makers Thread, Mina Park Profile, Notifications, Settings, and board desktop/mobile states.

diff --git a/docs/superpowers/plans/2026-08-21-design-skills-v0.25-notifications-board-parity.md b/docs/superpowers/plans/2026-08-21-design-skills-v0.25-notifications-board-parity.md
@@ -1,0 +1,19 @@
+# Design Skills v0.25 Notifications Board Parity Roadmap
+
+## Goal
+
+Keep the Figma-equivalent design board and the production-shaped Notifications route honest by making the Stay close activity center inspectable in the same screen inventory and handoff dialog.
+
+## Scope
+
+- [x] Expand the board inventory from nine to ten screens.
+- [x] Add a Notifications / Stay close artboard using the route’s hero, unread activity, follow-through, and mark-all-read language.
+- [x] Update the board marker to `v0.25 · review` and expose Notifications handoff metadata.
+- [x] Add responsive board styling for desktop and mobile composition.
+- [x] Cover the tenth artboard and Notifications dialog focus recovery in browser QA.
+- [x] Refresh board evidence and the representative visual baseline.
+- [x] Update the design spec, QA history, README, and evidence contract.
+
+## Review note
+
+The board and static responsive web surface remain review-ready, not release-ready: Notifications is now represented end-to-end in the handoff, while authenticated persistence, push delivery, native runtime, and deployment evidence remain integration work.

diff --git a/README.md b/README.md
@@ -65,4 +65,4 @@ The community reference surface is intentionally `review-ready`, not `release-re
 
 Read [`CONTRIBUTING.md`](CONTRIBUTING.md) before opening a change. The short version is: preserve the existing product decisions, add evidence for new states or viewports, run `npm run ci:quality`, and describe any remaining finding with severity, evidence, and next action.
 
-The current roadmap is [`docs/superpowers/plans/2026-08-21-design-skills-v0.24-settings-board-parity.md`](docs/superpowers/plans/2026-08-21-design-skills-v0.24-settings-board-parity.md).
+The current roadmap is [`docs/superpowers/plans/2026-08-21-design-skills-v0.25-notifications-board-parity.md`](docs/superpowers/plans/2026-08-21-design-skills-v0.25-notifications-board-parity.md).
